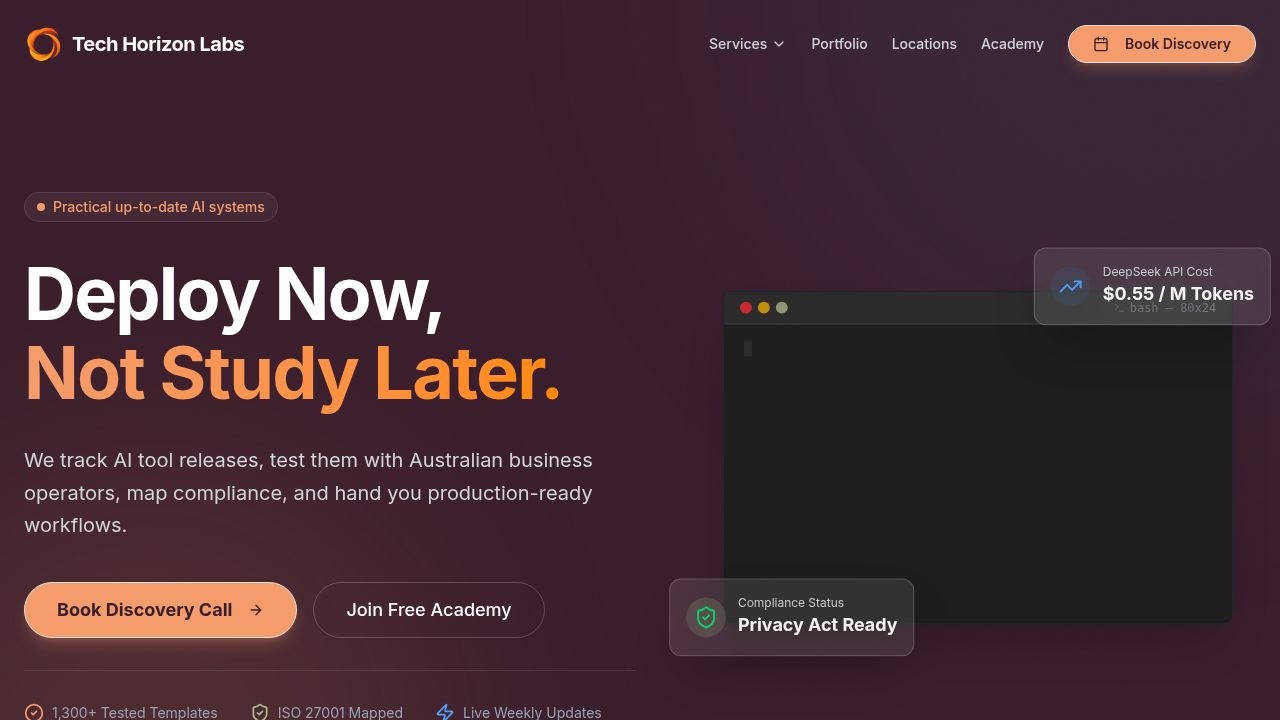
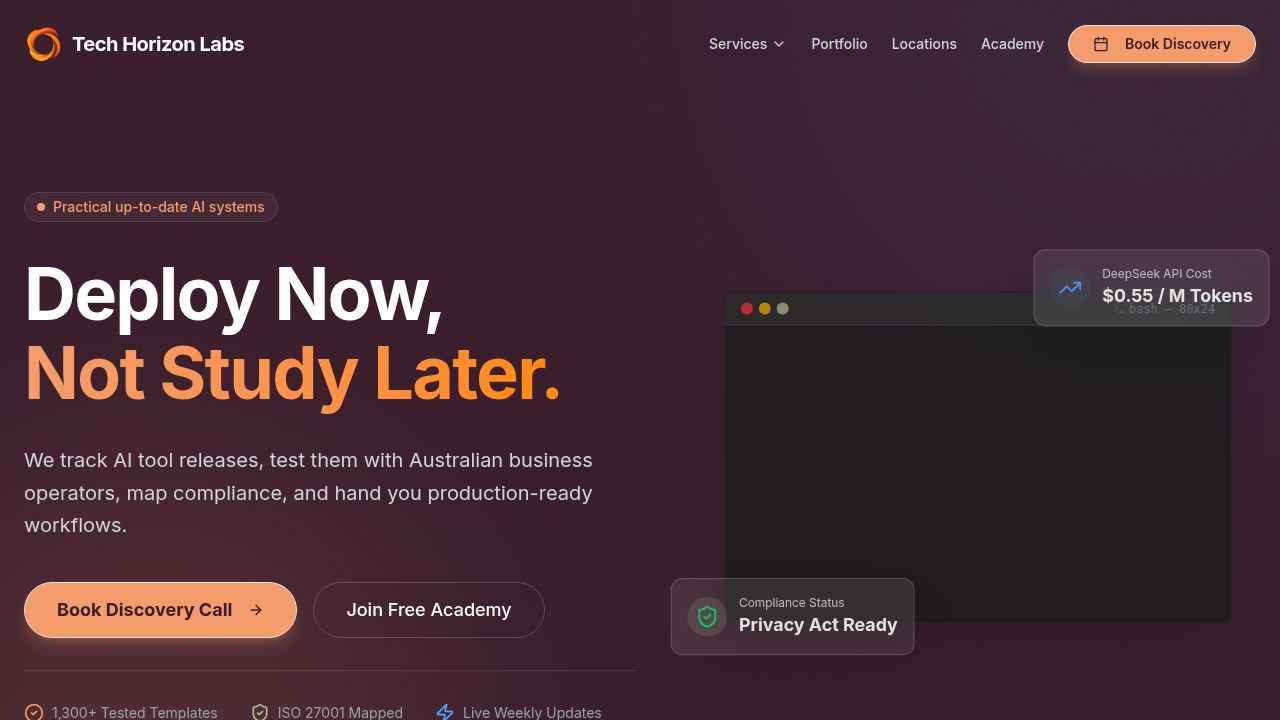
Add GoodFirms AI company badge to website footer and trust bar
Integrates the GoodFirms "Top Artificial Intelligence Company" badge into the website's footer, TrustBar, and About page, enhancing credibility with external validation links.

Replit-Commit-Author: Agent
Replit-Commit-Session-Id: 0a4a9e76-468f-4c83-b8e7-cb85c2a0bb39
Replit-Commit-Checkpoint-Type: intermediate_checkpoint
Replit-Commit-Event-Id: ce6d1b1d-af84-485f-a82a-533a36e235c8
Replit-Commit-Screenshot-Url: https://storage.googleapis.com/screenshot-production-us-central1/11b6cdf7-c583-4d84-a3c5-04c6bccf55ab/0a4a9e76-468f-4c83-b8e7-cb85c2a0bb39/uqf8jYq
Replit-Helium-Checkpoint-Created: true

Changed region(s): [[0.8125, 0.3667, 1.0, 0.4583], [0.5312, 0.825, 0.6875, 0.8861]]

diff --git a/client/src/components/sections/hero_problem.tsx b/client/src/components/sections/hero_problem.tsx
@@ -156,16 +156,34 @@ export function TrustBar() {
               <span className="text-sm font-semibold">fal.ai</span>
             </div>
           </div>
-          <a 
-            href="https://www.industry.gov.au/science-technology-and-innovation/technology/national-ai-centre/national-ai-directory" 
-            target="_blank" 
-            rel="noopener noreferrer"
-            className="inline-flex items-center gap-2 px-4 py-2 bg-blue-50 hover:bg-blue-100 rounded-full text-blue-700 text-sm font-medium transition-colors"
-            data-testid="link-trustbar-ai-directory"
-          >
-            <svg className="h-4 w-4" viewBox="0 0 24 24" fill="none" stroke="currentColor" strokeWidth="2"><path d="M12 22s8-4 8-10V5l-8-3-8 3v7c0 6 8 10 8 10z"/><path d="M9 12l2 2 4-4"/></svg>
-            Listed on industry.gov.au National AI Directory
-          </a>
+          <div className="flex flex-wrap justify-center items-center gap-4">
+            <a 
+              href="https://www.industry.gov.au/science-technology-and-innovation/technology/national-ai-centre/national-ai-directory" 
+              target="_blank" 
+              rel="noopener noreferrer"
+              className="inline-flex items-center gap-2 px-4 py-2 bg-blue-50 hover:bg-blue-100 rounded-full text-blue-700 text-sm font-medium transition-colors"
+              data-testid="link-trustbar-ai-directory"
+            >
+              <svg className="h-4 w-4" viewBox="0 0 24 24" fill="none" stroke="currentColor" strokeWidth="2"><path d="M12 22s8-4 8-10V5l-8-3-8 3v7c0 6 8 10 8 10z"/><path d="M9 12l2 2 4-4"/></svg>
+              Listed on industry.gov.au National AI Directory
+            </a>
+            <a 
+              href="https://www.goodfirms.co/company/tech-horizon-labs" 
+              target="_blank" 
+              rel="noopener noreferrer"
+              className="hover:opacity-80 transition-opacity"
+              data-testid="link-trustbar-goodfirms"
+            >
+              <img 
+                src="https://assets.goodfirms.co/badges/color-badge/artificial-intelligence.svg" 
+                alt="Top Artificial Intelligence Company on Goodfirms" 
+                title="Top Artificial Intelligence Company"
+                className="h-12"
+                loading="lazy"
+                data-testid="img-trustbar-goodfirms"
+              />
+            </a>
+          </div>
         </div>
       </div>
     </section>

diff --git a/client/src/pages/about.tsx b/client/src/pages/about.tsx
@@ -236,6 +236,43 @@ export default function About() {
                     </div>
                   </div>
                 </div>
+
+                <div className="bg-gradient-to-r from-orange-50 to-amber-50 rounded-xl p-6 border border-orange-100">
+                  <div className="flex items-start gap-4">
+                    <a 
+                      href="https://www.goodfirms.co/company/tech-horizon-labs" 
+                      target="_blank" 
+                      rel="noopener noreferrer"
+                      className="flex-shrink-0 hover:opacity-80 transition-opacity"
+                      data-testid="link-about-goodfirms"
+                    >
+                      <img 
+                        src="https://assets.goodfirms.co/badges/color-badge/artificial-intelligence.svg" 
+                        alt="Top Artificial Intelligence Company on Goodfirms" 
+                        title="Top Artificial Intelligence Company"
+                        className="w-20 h-auto"
+                        loading="lazy"
+                        data-testid="img-about-goodfirms"
+                      />
+                    </a>
+                    <div>
+                      <h3 className="font-bold text-aubergine-900 mb-2">Top AI Company on GoodFirms</h3>
+                      <p className="text-sm text-gray-600 mb-3">
+                        Recognized as a Top Artificial Intelligence Company by GoodFirms, a leading B2B research and reviews platform.
+                      </p>
+                      <a 
+                        href="https://www.goodfirms.co/company/tech-horizon-labs" 
+                        target="_blank" 
+                        rel="noopener noreferrer"
+                        className="inline-flex items-center gap-1 text-sm text-orange-600 hover:text-orange-800 font-medium transition-colors"
+                        data-testid="link-about-goodfirms-view"
+                      >
+                        View on GoodFirms
+                        <ExternalLink className="h-3 w-3" />
+                      </a>
+                    </div>
+                  </div>
+                </div>
               </div>
             </div>
           </div>

diff --git a/client/src/components/layout.tsx b/client/src/components/layout.tsx
@@ -229,7 +229,7 @@ export function Footer() {
               <span className="text-sm font-medium">fal.ai</span>
             </div>
           </div>
-          <div className="mt-6 text-center">
+          <div className="mt-6 flex flex-wrap justify-center items-center gap-6">
             <a 
               href="https://www.industry.gov.au/science-technology-and-innovation/technology/national-ai-centre/national-ai-directory" 
               target="_blank" 
@@ -239,6 +239,22 @@ export function Footer() {
             >
               <svg className="h-4 w-4" viewBox="0 0 24 24" fill="currentColor"><path d="M12 2C6.48 2 2 6.48 2 12s4.48 10 10 10 10-4.48 10-10S17.52 2 12 2zm-1 17.93c-3.95-.49-7-3.85-7-7.93 0-.62.08-1.21.21-1.79L9 15v1c0 1.1.9 2 2 2v1.93zm6.9-2.54c-.26-.81-1-1.39-1.9-1.39h-1v-3c0-.55-.45-1-1-1H8v-2h2c.55 0 1-.45 1-1V7h2c1.1 0 2-.9 2-2v-.41c2.93 1.19 5 4.06 5 7.41 0 2.08-.8 3.97-2.1 5.39z"/></svg>
               Listed on industry.gov.au National AI Directory
+            </a>
+            <a 
+              href="https://www.goodfirms.co/company/tech-horizon-labs" 
+              target="_blank" 
+              rel="noopener noreferrer"
+              className="hover:opacity-80 transition-opacity"
+              data-testid="link-footer-goodfirms"
+            >
+              <img 
+                src="https://assets.goodfirms.co/badges/color-badge/artificial-intelligence.svg" 
+                alt="Top Artificial Intelligence Company on Goodfirms" 
+                title="Top Artificial Intelligence Company"
+                className="h-10"
+                loading="lazy"
+                data-testid="img-footer-goodfirms"
+              />
             </a>
           </div>
         </div>

diff --git a/replit.md b/replit.md
@@ -48,8 +48,9 @@ Preferred communication style: Simple, everyday language.
 ### Trust Signals & Partners (January 2026)
 - Added TrustBar component on homepage with partner logos (Google, Anthropic, OpenAI, AWS, n8n, Docker, fal.ai)
 - industry.gov.au National AI Directory listing badge prominently displayed
+- GoodFirms "Top Artificial Intelligence Company" badge added to TrustBar, Footer, and About page
 - Updated footer with SVG partner icons and hover effects
-- About page includes expanded Partners & Affiliations section
+- About page includes expanded Partners & Affiliations section with both government and GoodFirms badges
 - National AI Directory badge with government link in about page
 
 ### Performance Optimizations